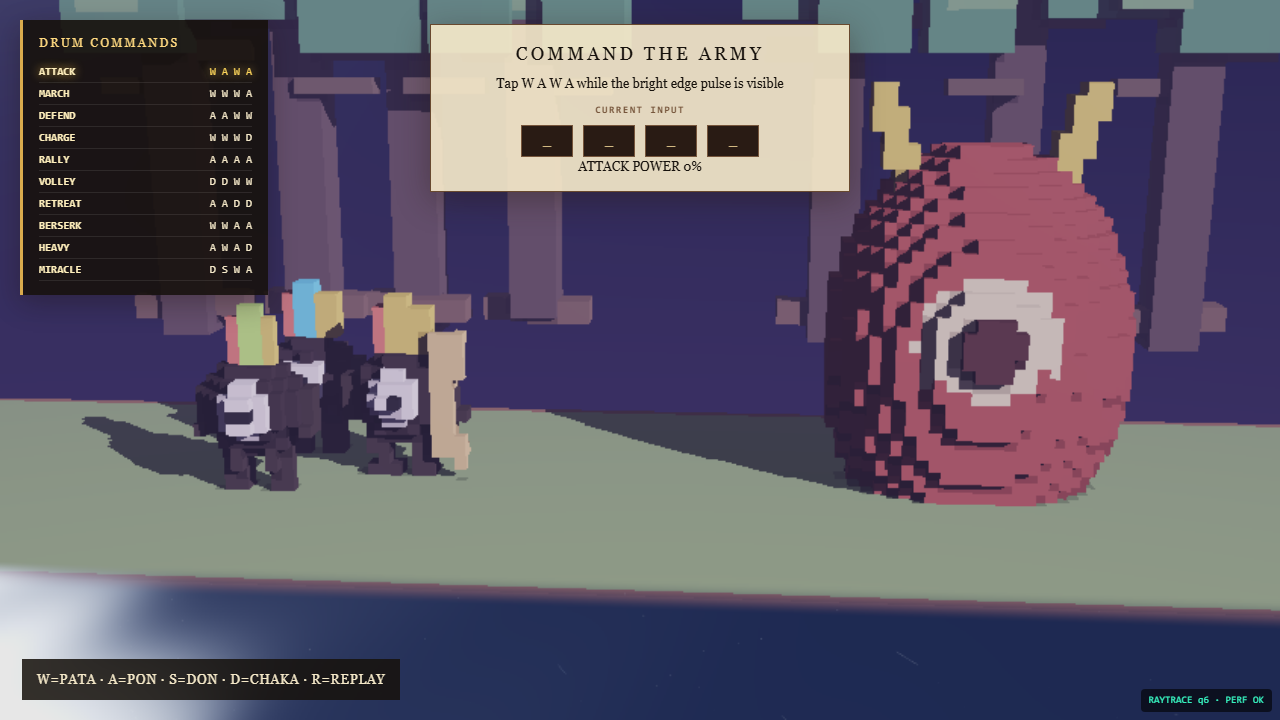
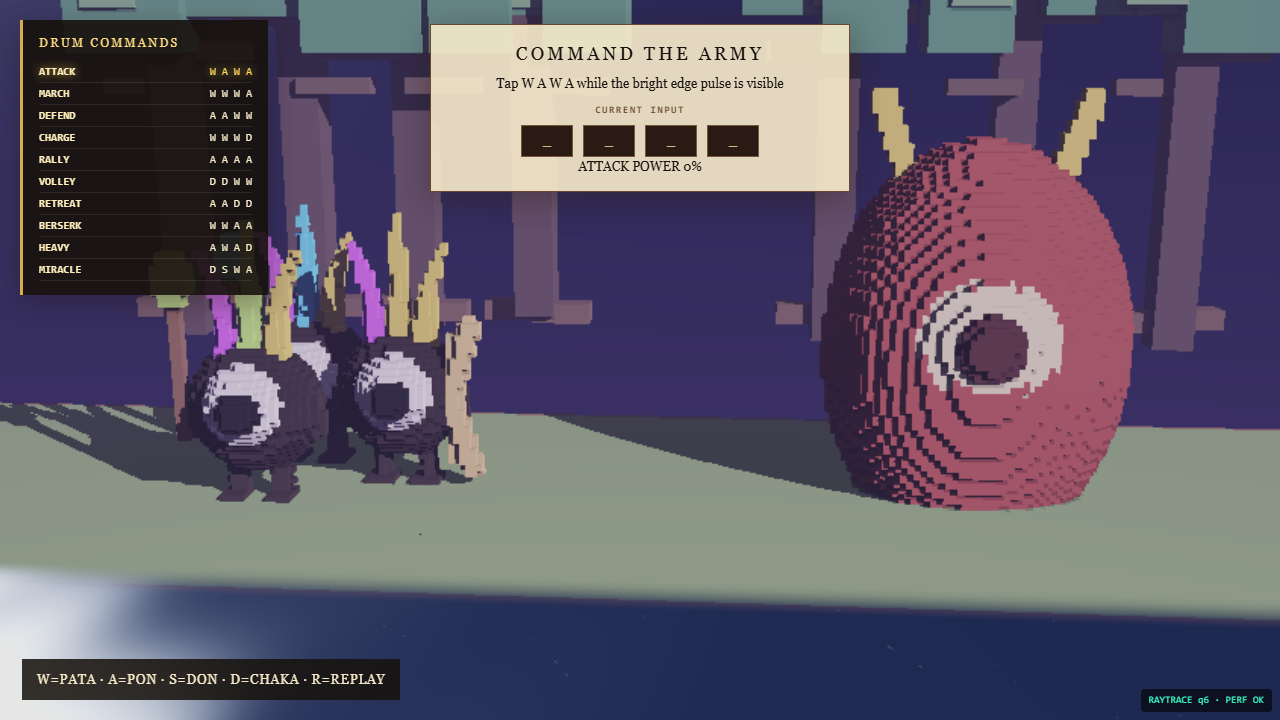
feat(6p3d): 4x voxel density + reference-standard patapon art
- Grid 160x64x112 @0.25 -> 320x128x224 @0.125 (~9.2MB R8 upload);
  two-level macrocell DDA (now 80x32x56 occupancy) keeps traversal
  real-time
- Minions redrawn to references/p1-pata-emerald.png standard: big
  spherical body, single giant eye (~60% of face, specular highlight),
  3 tapered flame feathers (violet/accent/gold), stick legs with
  blocky feet, spear for non-archers; all features >= 2 fine voxels
  to kill sub-cell popping
- Quality ladder reordered by visual cost: shadow 1-tap at level 3,
  water refl downgrade at 4, wave layers at 5, dynamic upload
  throttle last at 6 (it caused visible animation popping)
- Governor: degrade threshold 40->55ms, plus slow upgrade path
  (EMA < 18ms for 8 evals steps back up) so real GPUs recover q0

Smoke (SwiftShader): all PASS, zero console errors.

diff --git a/6_patapon3D/src/engine/raytrace/introScene.ts b/6_patapon3D/src/engine/raytrace/introScene.ts
@@ -119,7 +119,9 @@ function buildStatic(g: Uint8Array): void {
   }
 }
 
-// ─── patapon(姿态来自 IntroStageState.armyPose) ───
+// ─── patapon(姿态来自 IntroStageState.armyPose;造型对标 references/p1-pata-emerald.png) ───
+// 参照标准:大球体 + 占脸 ~60% 的独眼(玻璃高光)、3 根锥形火焰羽冠、
+// 细棍腿 + 方块脚、细长手臂;最小特征 ≥2 细体素(0.125 网格下防抖动)
 function drawLimb(
   g: Uint8Array,
   px: number,
@@ -127,12 +129,29 @@ function drawLimb(
   pz: number,
   angleZ: number,
   length: number,
+  radius: number,
 ): void {
   // rotation.z = a:原 limb 网格指向 -y,旋转后方向 (sin a, -cos a)
   const dx = Math.sin(angleZ);
   const dy = -Math.cos(angleZ);
-  for (const t of [0.3, 0.62, 0.94]) {
-    fillSphere(g, px + dx * length * t, py + dy * length * t, pz, 0.3, MAT.LIMB);
+  for (const t of [0.2, 0.45, 0.7, 0.95]) {
+    fillSphere(g, px + dx * length * t, py + dy * length * t, pz, radius, MAT.LIMB);
+  }
+}
+
+/** 锥形火焰羽冠:底部 r0.3 → 尖 r0.1,随高度外倾 tiltX */
+function drawFeather(
+  g: Uint8Array,
+  x: number,
+  yBase: number,
+  z: number,
+  height: number,
+  tiltX: number,
+  id: number,
+): void {
+  for (let t = 0; t <= 1.001; t += 0.07) {
+    const r = 0.3 + (0.1 - 0.3) * t;
+    fillSphere(g, x + tiltX * t * t, yBase + height * t, z, r, id);
   }
 }
 
@@ -142,35 +161,46 @@ function drawPatapon(
   pose: ArmyPose,
 ): void {
   // 舞蹈 tap → 轻微 squash(身体旋转在体素下用 squash 近似)
-  const sx = 1 - pose.tap * 0.06;
-  const sy = 1 + pose.tap * 0.12;
+  const sx = 1 - pose.tap * 0.05;
+  const sy = 1 + pose.tap * 0.1;
   const x = unit.x;
   const y = pose.y;
   const z = unit.z;
 
-  fillEllipsoid(g, x, y, z, 1.05 * sx, 1.02 * sy, 0.72, MAT.ARMY_BODY);
-  fillSphere(g, x, y + 0.05 * sy, z + 0.62, 0.55, MAT.EYE_WHITE);
-  fillSphere(g, x + 0.05, y + 0.05 * sy, z + 0.95, 0.22, MAT.PUPIL);
+  // 身体(大球)+ 独眼(占脸 ~60%,白眼球 + 瞳孔;高光由 specular 着色)
+  fillEllipsoid(g, x, y, z, 1.38 * sx, 1.34 * sy, 1.02, MAT.ARMY_BODY);
+  fillSphere(g, x, y + 0.18 * sy, z + 0.62, 0.82, MAT.EYE_WHITE);
+  fillSphere(g, x + 0.07, y + 0.16 * sy, z + 1.24, 0.42, MAT.PUPIL);
 
-  const feathers: ReadonlyArray<readonly [number, number, number]> = [
-    [-0.42, 1.8, MAT.FEATHER_RED],
-    [0, 2.05, accentMat(unit.accent)],
-    [0.42, 1.82, MAT.FEATHER_GOLD],
-  ];
-  for (const [px, h, id] of feathers) {
-    fillBox(g, x + px, y + ((1.05 + h) / 2) * sy, z, 0.07, ((h - 1.05) / 2) * sy, 0.07, id);
+  // 羽冠:左紫 / 中强调色(最高)/ 右金(对标参考图),随 squash 缩放
+  drawFeather(g, x - 0.5, y + 1.15 * sy, z, 2.1 * sy, -0.55, MAT.FEATHER_VIOLET);
+  drawFeather(g, x, y + 1.2 * sy, z, 2.7 * sy, 0, accentMat(unit.accent));
+  drawFeather(g, x + 0.5, y + 1.15 * sy, z, 2.15 * sy, 0.55, MAT.FEATHER_GOLD);
+
+  // 细棍手臂 + 细腿 + 方块脚
+  drawLimb(g, x - 1.15, y + 0.5 * sy, z, pose.leftArmZ, 1.05, 0.2);
+  drawLimb(g, x + 1.15, y + 0.5 * sy, z, pose.rightArmZ, 1.05, 0.2);
+  drawLimb(g, x - 0.48, y - 1.0 * sy, z, pose.leftLegZ, 1.0, 0.22);
+  drawLimb(g, x + 0.48, y - 1.0 * sy, z, pose.rightLegZ, 1.0, 0.22);
+  for (const side of [-1, 1] as const) {
+    const a = side < 0 ? pose.leftLegZ : pose.rightLegZ;
+    const fx = x + side * 0.48 + Math.sin(a) * 1.0;
+    const fy = y - 1.0 * sy - Math.cos(a) * 1.0;
+    fillBox(g, fx, fy - 0.05, z + 0.12, 0.22, 0.12, 0.34, MAT.LIMB);
   }
 
-  drawLimb(g, x - 0.92, y + 0.45 * sy, z, pose.leftArmZ, 0.9);
-  drawLimb(g, x + 0.92, y + 0.45 * sy, z, pose.rightArmZ, 0.9);
-  drawLimb(g, x - 0.43, y - 0.75 * sy, z, pose.leftLegZ, 0.9);
-  drawLimb(g, x + 0.43, y - 0.75 * sy, z, pose.rightLegZ, 0.9);
-
   if (unit.archer) {
-    for (let i = -8; i <= 8; i += 2) {
-      fillSphere(g, x + 0.9 + Math.abs(i) * 0.045, y + i * 0.15, z + 0.35, 0.26, MAT.BOW_GOLD);
+    // 弓:弧线 + 弦(杆件全部 ≥2 体素宽)
+    for (let i = -9; i <= 9; i += 1) {
+      fillSphere(g, x + 1.15 + Math.abs(i) * 0.05, y + i * 0.17, z + 0.4, 0.24, MAT.BOW_GOLD);
     }
-    fillBox(g, x + 0.92, y, z + 0.35, 0.03, 1.2, 0.03, MAT.BOW_GOLD);
+    fillBox(g, x + 1.18, y, z + 0.4, 0.05, 1.35, 0.05, MAT.BOW_GOLD);
+  } else {
+    // 矛:细杆 + 大矛头(对标参考图的翡翠矛;非弓手手持)
+    const sxBase = x - 1.55;
+    fillBox(g, sxBase, y + 0.9, z + 0.3, 0.07, 1.6, 0.07, MAT.ARROW_WOOD);
+    fillBox(g, sxBase, y + 2.7, z + 0.3, 0.2, 0.5, 0.14, accentMat(unit.accent));
+    fillBox(g, sxBase, y + 2.7, z + 0.3, 0.3, 0.28, 0.2, accentMat(unit.accent));
   }
 }
 

diff --git a/6_patapon3D/src/engine/IntroEngine.ts b/6_patapon3D/src/engine/IntroEngine.ts
@@ -59,6 +59,7 @@ export class IntroEngine {
   private qualityLevel = 0;
   private frameMsEma = 0;
   private framesSinceEval = 0;
+  private calmEvals = 0;
   private renderer: THREE.WebGLRenderer | null = null;
   private adapter: SceneRenderer<IntroState> | null = null;
   private driver: IntroStageDriver | null = null;
@@ -136,17 +137,27 @@ export class IntroEngine {
     const frame = (time: number) => {
       if (!this.running) return;
       const dt = Math.min(0.05, this.lastTime ? (time - this.lastTime) / 1000 : 0);
-      // 降质调节器(只降不升,避免振荡):帧时 EMA > 40ms 且未满 6 档 → 每 15 帧降一档
+      // 降质调节器:帧时 EMA > 55ms 降档(每 15 帧评估一次);
+      // EMA < 18ms 持续 8 次评估才升档(大迟滞,避免振荡)
       if (this.lastTime) {
         const frameMs = Math.min(1000, time - this.lastTime);
         this.frameMsEma = this.frameMsEma === 0 ? frameMs : this.frameMsEma * 0.9 + frameMs * 0.1;
         if (++this.framesSinceEval >= 15) {
           this.framesSinceEval = 0;
-          if (this.frameMsEma > 40 && this.qualityLevel < 6) {
-            this.qualityLevel += this.frameMsEma > 120 ? 2 : 1;
-            this.qualityLevel = Math.min(6, this.qualityLevel);
+          if (this.frameMsEma > 55 && this.qualityLevel < 6) {
+            this.qualityLevel = Math.min(6, this.qualityLevel + (this.frameMsEma > 140 ? 2 : 1));
+            this.calmEvals = 0;
             this.adapter?.setQuality(this.qualityLevel);
             usePatapongStore.setState({ qualityLevel: this.qualityLevel });
+          } else if (this.frameMsEma < 18 && this.qualityLevel > 0) {
+            if (++this.calmEvals >= 8) {
+              this.calmEvals = 0;
+              this.qualityLevel -= 1;
+              this.adapter?.setQuality(this.qualityLevel);
+              usePatapongStore.setState({ qualityLevel: this.qualityLevel });
+            }
+          } else {
+            this.calmEvals = 0;
           }
         }
       }

diff --git a/6_patapon3D/src/engine/raytrace/RaytraceAdapter.ts b/6_patapon3D/src/engine/raytrace/RaytraceAdapter.ts
@@ -4,15 +4,15 @@
  * 持有一个场景无关的 VoxelRaycaster + 一个 VoxelSceneBuilder(场景内容):
  * 每帧 beginDynamic → builder.drawDynamic → commitDynamic → 相机/光照 uniform → 绘制。
  *
- * 质量阶梯(setQuality level,对应设计文档降级顺序的前几步;
- * 超范围由引擎换成 raster 适配器):
+ * 质量阶梯(setQuality level;视觉破坏性低的在前 —— 水面与动画
+ * 流畅度尽量保留,超范围由引擎换成 raster 适配器):
  *   0:全质量(scale 1.0,5-tap 阴影,逐帧上传)
  *   1:内部渲染分辨率 0.8
  *   2:内部渲染分辨率 0.66
- *   3:水面反射降质(跳过体素 DDA,只反射天空/远山)
- *   4:水面波浪 3→1 层
- *   5:阴影 5-tap → 1-tap
- *   6:动态网格隔帧上传
+ *   3:阴影 5-tap → 1-tap
+ *   4:水面反射降质(跳过体素 DDA,只反射天空/远山)
+ *   5:水面波浪 3→1 层
+ *   6:动态网格隔帧上传(动画会跳帧,最后手段)
  */
 
 import * as THREE from 'three';
@@ -72,9 +72,9 @@ export class RaytraceAdapter<TSnapshot> implements SceneRenderer<TSnapshot> {
     this.qualityLevel = Math.max(0, Math.min(6, Math.floor(level)));
     const l = this.qualityLevel;
     this.renderScale = l >= 2 ? 0.66 : l >= 1 ? 0.8 : 1.0;
-    // level 3:水面反射降质;level 4:波浪再降为单层
-    this.raycaster.setWaterQuality(l >= 3 ? 0 : 1, l >= 4 ? 1 : 3);
-    this.raycaster.setShadowTaps(l >= 5 ? 1 : 5);
+    // level 3:阴影先降;level 4:水面反射降质;level 5:波浪再降为单层
+    this.raycaster.setShadowTaps(l >= 3 ? 1 : 5);
+    this.raycaster.setWaterQuality(l >= 4 ? 0 : 1, l >= 5 ? 1 : 3);
     this.raycaster.setDynamicUploadInterval(l >= 6 ? 2 : 1);
     this.applySize();
   }

diff --git a/6_patapon3D/src/engine/raytrace/VoxelRaycaster.ts b/6_patapon3D/src/engine/raytrace/VoxelRaycaster.ts
@@ -20,14 +20,14 @@ import * as THREE from 'three';
 import type { LightingState } from './SceneContract';
 
 // ─── 网格参数 ───
-// 160×64×112 @0.25(双倍密度)≈ 1.1MB/次全量上传;世界范围不变
+// 320×128×224 @0.125(四倍密度)≈ 9.2MB/次全量上传;世界范围不变
 // x∈[-20,20] y∈[-3,13] z∈[-16,12]。
-// 遍历为两级 DDA:4³ 体素一个宏格(40×16×28 占用纹理 ≈17.9KB),
+// 遍历为两级 DDA:4³ 体素一个宏格(80×32×56 占用纹理 ≈143KB),
 // 空宏格整格跳过 —— 这是 shader 友好型的层次加速结构(等效 BVH 的
-// 空间剪枝:绝大多数光线步进数 ÷4),支撑双倍密度下的实时帧率。
-export const GRID_SIZE: readonly [number, number, number] = [160, 64, 112];
+// 空间剪枝:绝大多数光线步进数 ÷4),支撑高密度下的实时帧率。
+export const GRID_SIZE: readonly [number, number, number] = [320, 128, 224];
 export const GRID_MIN = new THREE.Vector3(-20, -3, -16);
-export const GRID_STEP = 0.25;
+export const GRID_STEP = 0.125;
 /** 宏格边长(细体素数);三个维度必须能被它整除 */
 export const MACRO_CELL = 4;
 export const MACRO_SIZE: readonly [number, number, number] = [
